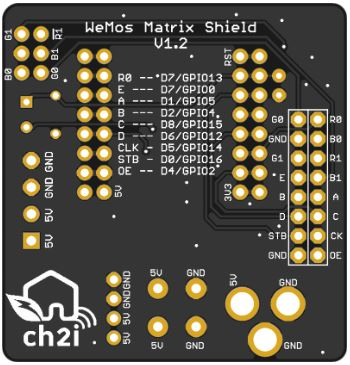
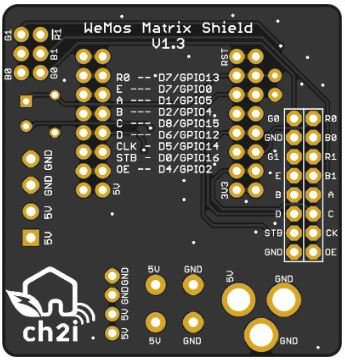
Updated to V1.3

diff --git a/README.md b/README.md
@@ -4,13 +4,24 @@ This shield is used to get simplify ESP8266 connectivity with a [WeMos][22] ESP8
 
 See it in action, nice isn't it?
 
+**Pay attention V1.2 got a missing trace between Input G0 and Output G1**
+See Issue [#2](https://github.com/hallard/WeMos-Matrix-Shield/issues/2). and how to fix. If you have V1.2 don't forget to solder a wire between these 2 points. Thanks to nthonyjclarke and dragondaud for pointing this out
+
 <img src="https://github.com/hallard/WeMos-Matrix-Shield/raw/master/pictures/Morphing-Clock.gif">
 
 This breakout has just few minimal features.
 
+**New in V1.3**
+
+- Fixed missing trace missing beetwen Input G0 and Output G1. That was cutted by accident when creating V1.2 from V1.1.
+
 **New in V1.2**
 
 - Added footprint for a Photoresistor (LDR) + Resistor to be able to adjust luminosity with ambiant light
+- This version has a missing trace between Input G0 and Output G1, connect a wire has follow to fix
+
+<img src="https://github.com/hallard/WeMos-Matrix-Shield/raw/master/pictures/fix-v12-wire.jpg">
+
 
 **New in V1.1**
 
